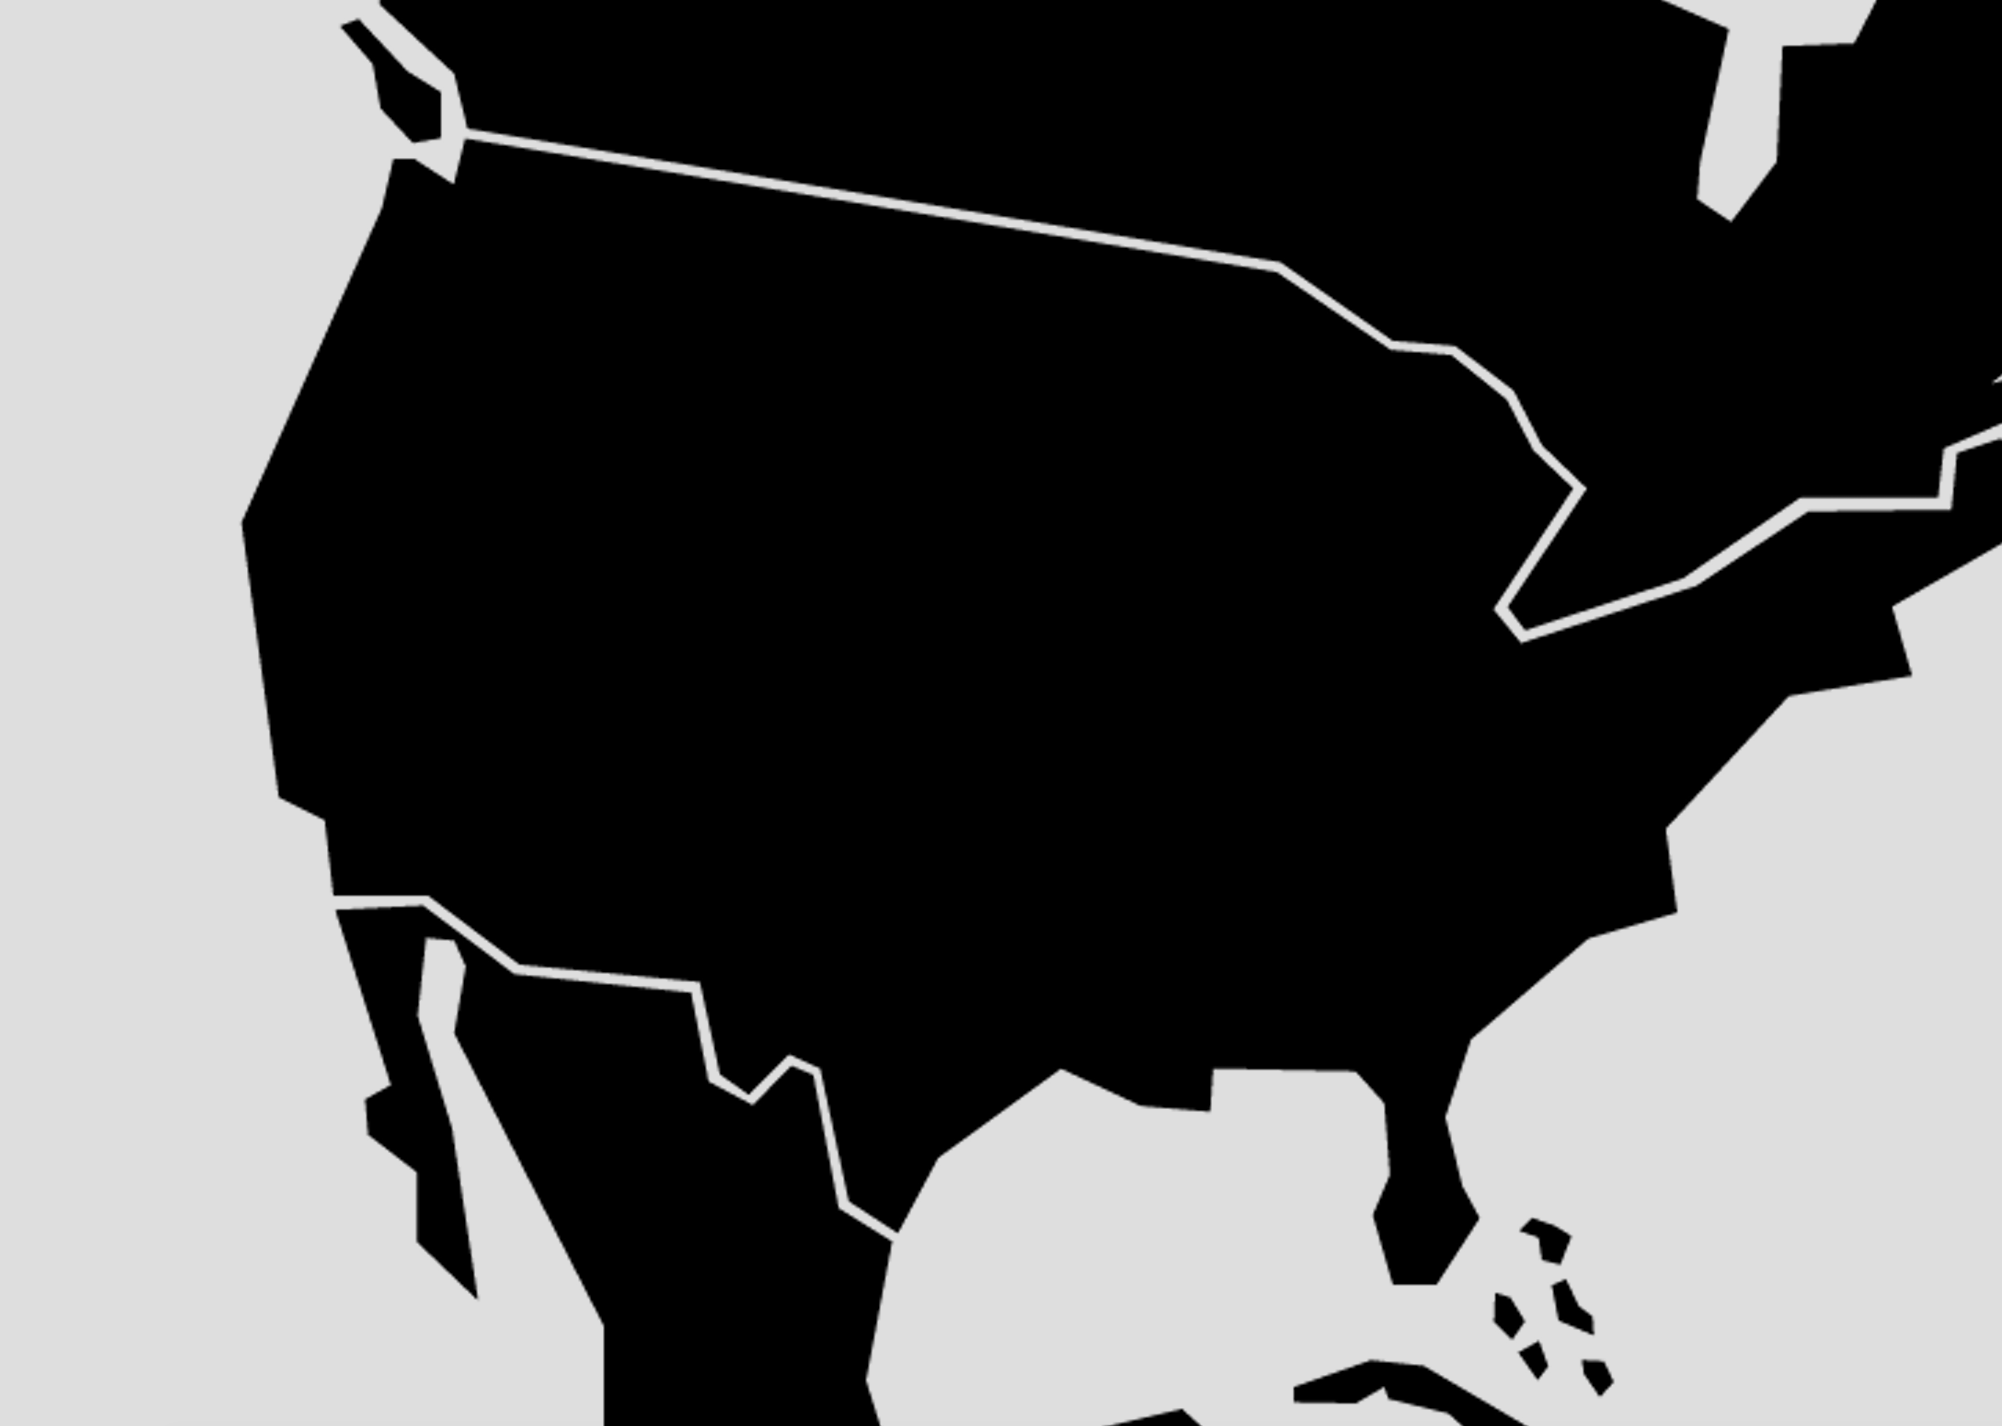
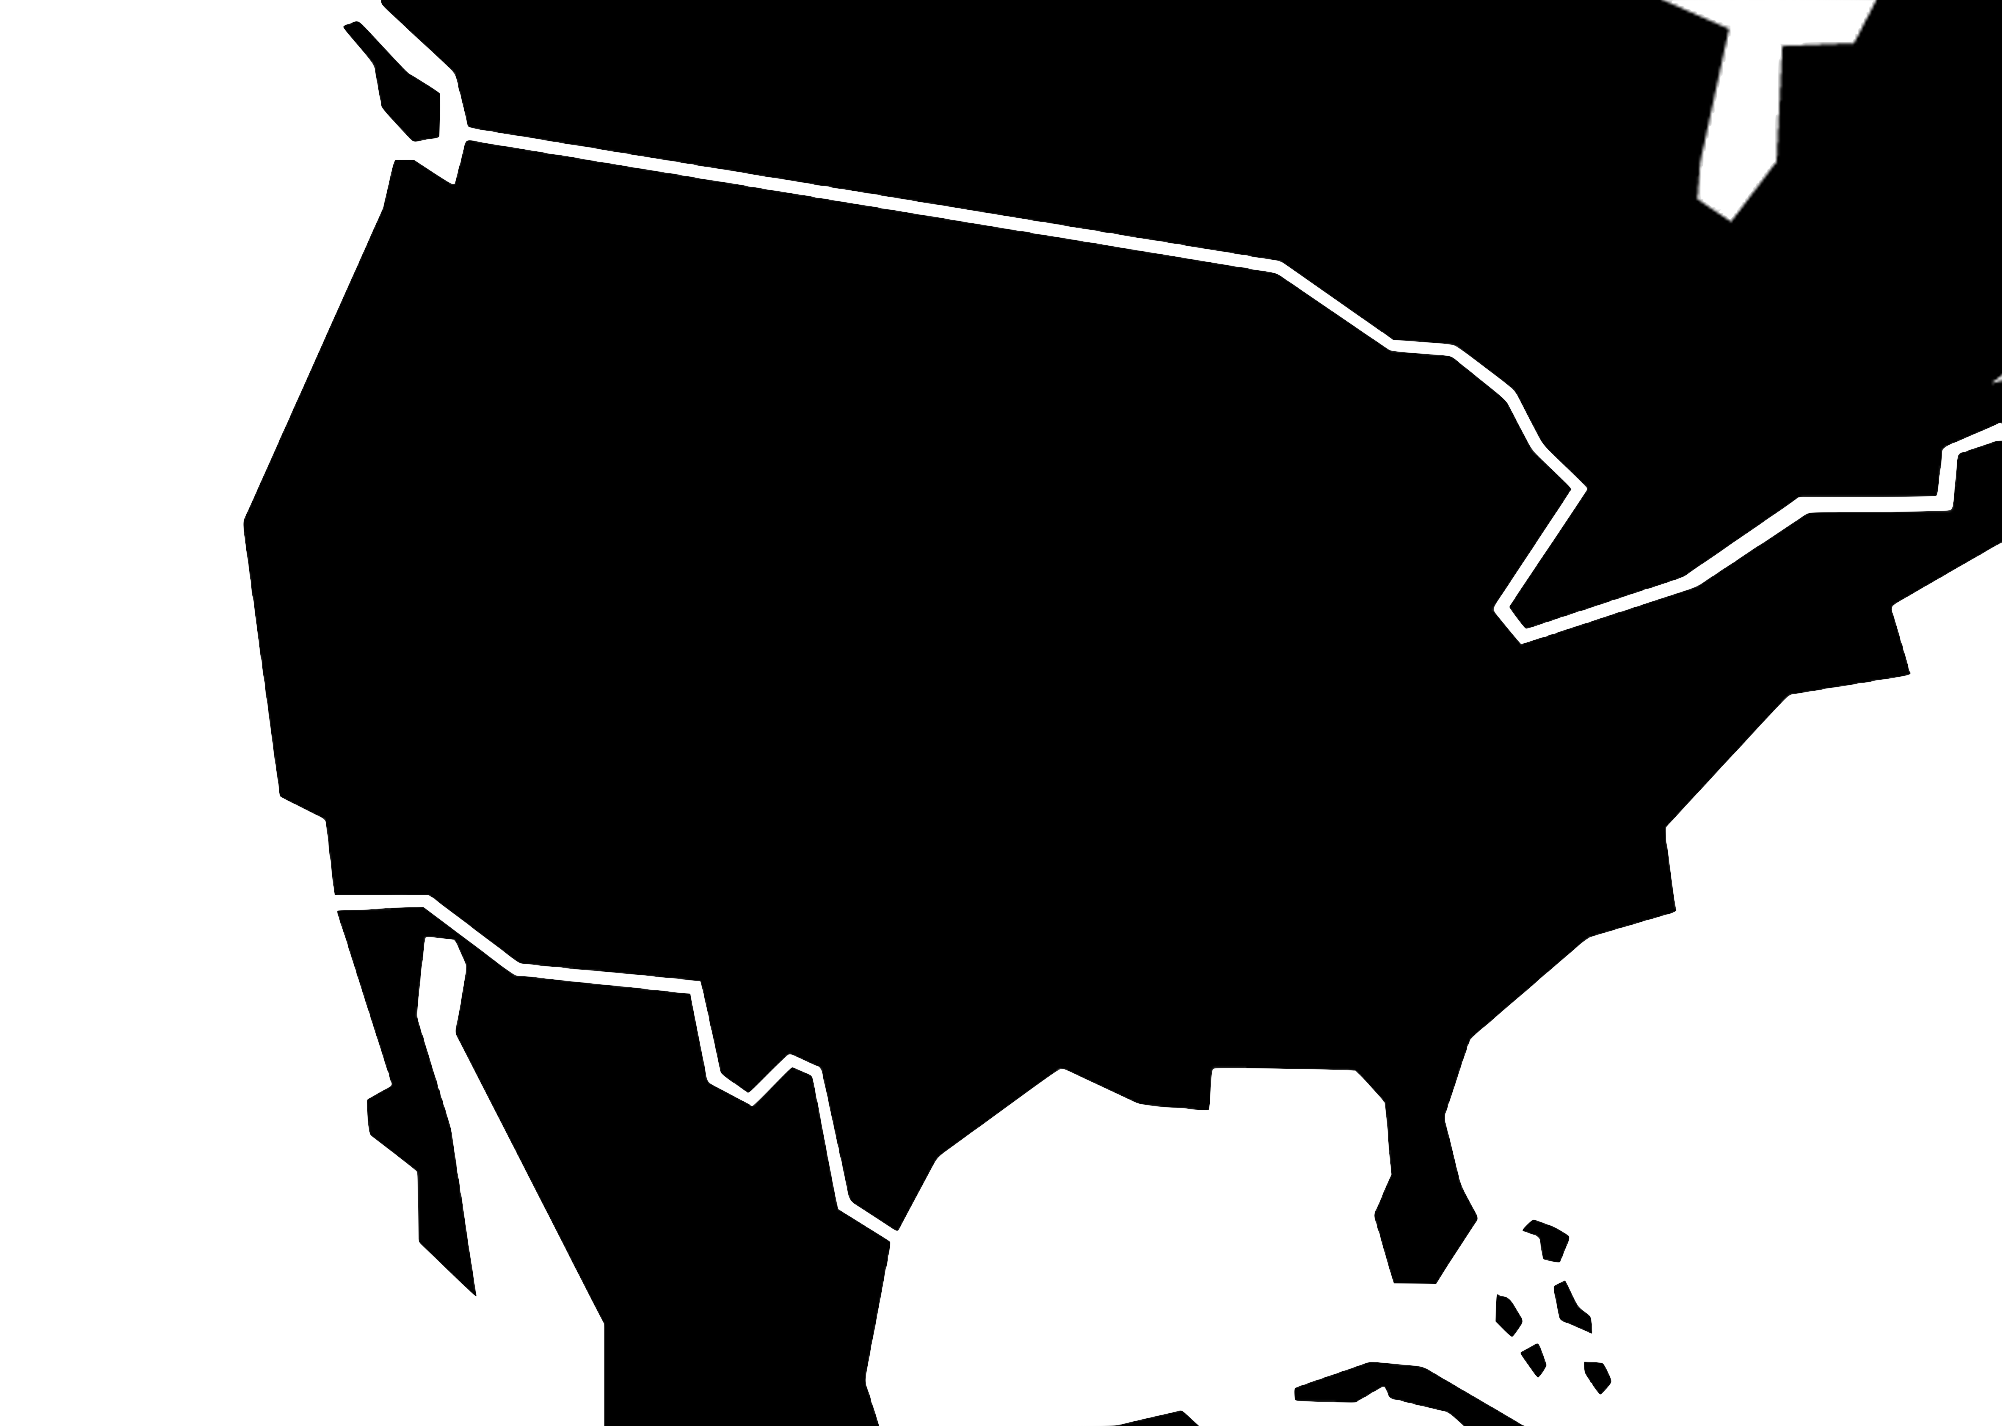
changed weapon descriptions

diff --git a/java/src/ie/tudublin/UI.java b/java/src/ie/tudublin/UI.java
@@ -52,11 +52,11 @@ public class UI extends PApplet
     // description of the weapons 
     String[] weaponDesc = 
     {
-        "Name: Axe",
-        "Name: Bow and arrow ",
-        "Name: Spear",
-        "Name: Sword",
-        "Name : Trident",
+        "Axe : use to shape and cut wood.",
+        "Bow and Arrow ",
+        "Spear : may be sharpened or head of spear maybe be used for other materials such as stone, bone, metal.  ",
+        "Sword : for cutting or thrusting",
+        "Trident : mostly known as a weapon but also for spear fishing. Mainly used by Finiick",
     };
 
     PImage[] images = new PImage[weapons.length];
@@ -120,7 +120,7 @@ public class UI extends PApplet
         // Loading Images
 
         Mockingjay = loadImage("mockingjay.jpeg");
-        Panem = loadImage("map.png");
+        Panem = loadImage("map2.png");
         
         // weapon1 = loadImage("axe.jpg");
         // weapon2 = loadImage("bowarrow.jpg");
@@ -133,8 +133,7 @@ public class UI extends PApplet
         {
             images[i] = loadImage(weapons[i]);
             childImages[i] = loadImage(childWeapons[i]);
-            
-            
+
         }
 
         
@@ -181,6 +180,7 @@ public class UI extends PApplet
         else if (set == 1)
         {
             background(0);
+            //background(255,255,230);
             stroke(255,128,128);
            
             
@@ -296,8 +296,6 @@ public class UI extends PApplet
                 minutesR = (float) (radius * 0.25);
                 hourR = (float) (radius * 0.35);
                
-               
-                
                 //outer circle
                 stroke(204,0,102);
                 noFill();
@@ -334,7 +332,6 @@ public class UI extends PApplet
                 float s = map(second(), 0, 60, 0, TWO_PI) - HALF_PI;;
                 float m = map(minute() + norm(second(), 0, 60), 0, 60, 0, TWO_PI) - HALF_PI; 
                 float h = map(hour() + norm(minute(), 0, 60), 0, 24, 0, TWO_PI * 2) - HALF_PI;
-
 
                 
                 // // seconds of clock
@@ -409,11 +406,9 @@ public class UI extends PApplet
             
        // }
 
-  
      
   // }
 
-   
 
 	public void mousePressed()
     {
